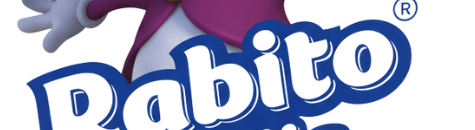
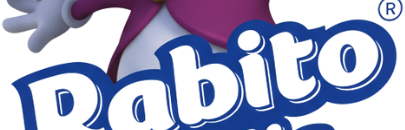
feat: pravi logoi u traci brendova — maleni, Shopex, Naklik, Hir, Plantigo (skinuti sa njihovih sajtova, bez pozadine) + Rabito ociscen; ReGen pro/Solea/Kupina/TVTop ostaju tekst do fajlova

diff --git a/index.html b/index.html
@@ -166,14 +166,14 @@
       <h2>Brendovi koji se pakuju u našem magacinu</h2>
     </div>
     <div class="logo-strip" aria-label="Brendovi koje pakujemo i šaljemo">
-      <span class="brand-chip mali">maleni</span>
+      <span class="brand-chip slika"><img src="images/brend-maleni.png" alt="maleni" width="500" height="114" loading="lazy"></span>
+      <span class="brand-chip slika"><img src="images/brend-shopex.png" alt="Shopex" width="696" height="150" loading="lazy"></span>
+      <span class="brand-chip slika"><img src="images/brend-naklik.png" alt="Naklik" width="384" height="150" loading="lazy"></span>
+      <span class="brand-chip slika"><img src="images/brend-hir.png" alt="Hir Shop" width="487" height="85" loading="lazy"></span>
+      <span class="brand-chip slika"><img src="images/brend-plantigo.png" alt="Plantigo" width="613" height="150" loading="lazy"></span>
+      <span class="brand-chip slika"><img src="images/brend-rabito.png?v=2" alt="Rabito" width="405" height="130" loading="lazy"></span>
       <span class="brand-chip">ReGen pro</span>
-      <span class="brand-chip"><img src="images/brend-rabito.png" alt="Rabito" width="475" height="130" loading="lazy"></span>
       <span class="brand-chip">Solea</span>
-      <span class="brand-chip">Plantigo</span>
-      <span class="brand-chip">Naklik</span>
-      <span class="brand-chip">Shopex</span>
-      <span class="brand-chip">Hir</span>
       <span class="brand-chip">Kupina</span>
       <span class="brand-chip">TVTop</span>
     </div>

diff --git a/stil.css b/stil.css
@@ -238,6 +238,7 @@ footer a:hover{color:var(--orange)}
 .logo-strip{display:flex;flex-wrap:wrap;justify-content:center;align-items:center;gap:1.1rem 2.6rem;margin-top:1.5rem}
 .brand-chip{font-weight:800;font-size:1.28rem;color:#8b93a0;letter-spacing:.02em;white-space:nowrap;filter:grayscale(1);opacity:.9}
 .brand-chip img{height:30px;width:auto;display:block}
+.brand-chip.slika{filter:none;opacity:1}
 .brand-chip.mali{text-transform:lowercase;font-weight:700}
 @media(max-width:640px){.logo-strip{gap:.7rem 1.5rem}.brand-chip{font-size:1.02rem}.brand-chip img{height:22px}}
 
